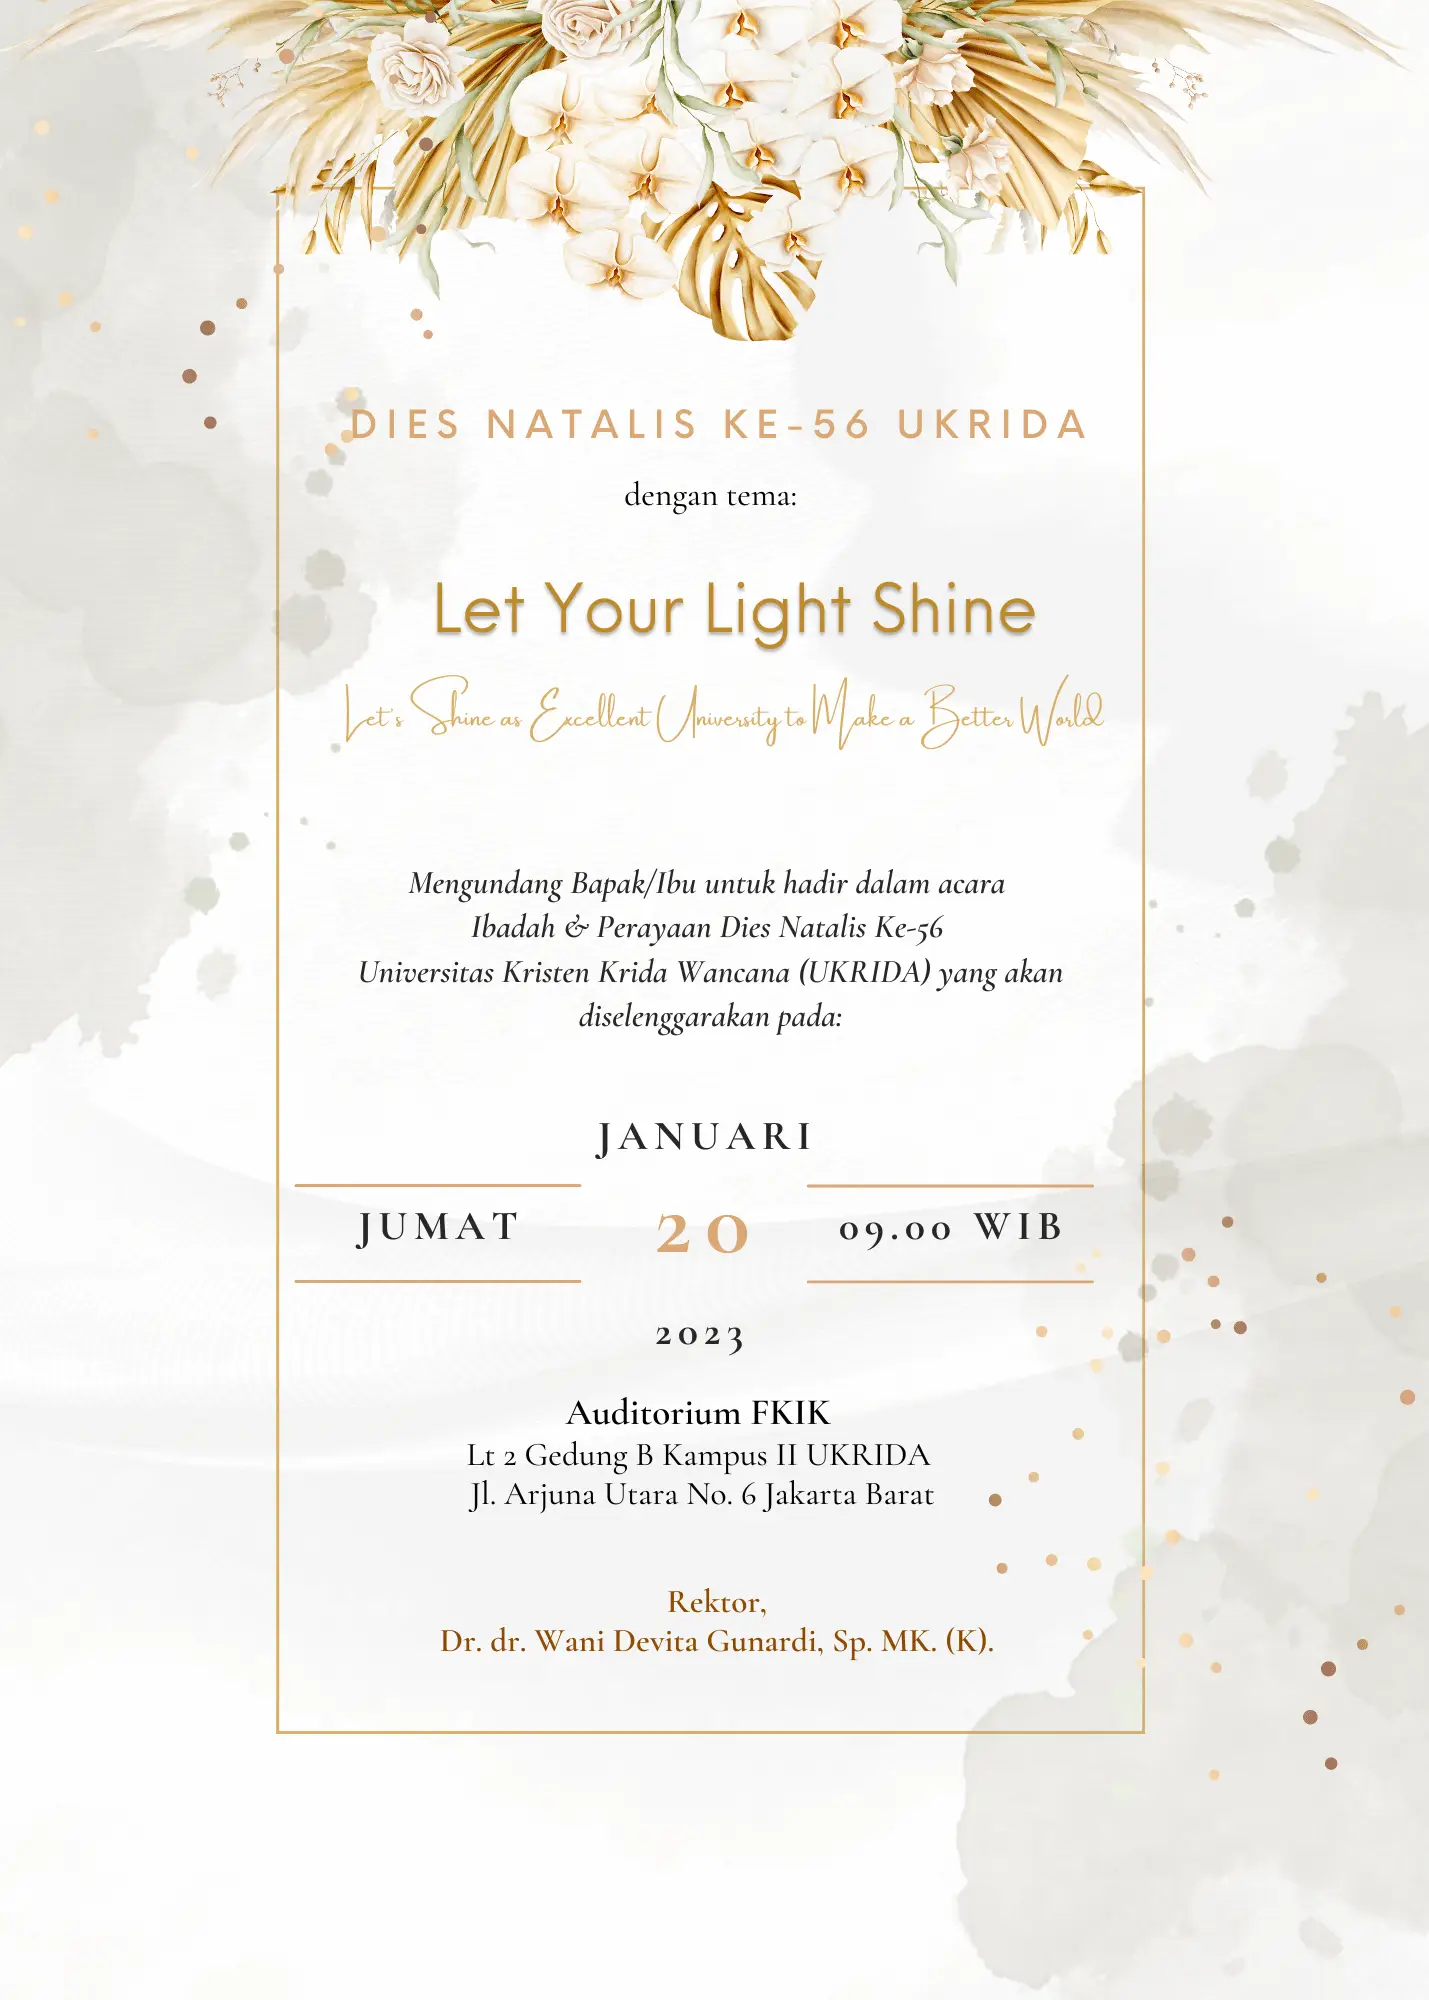
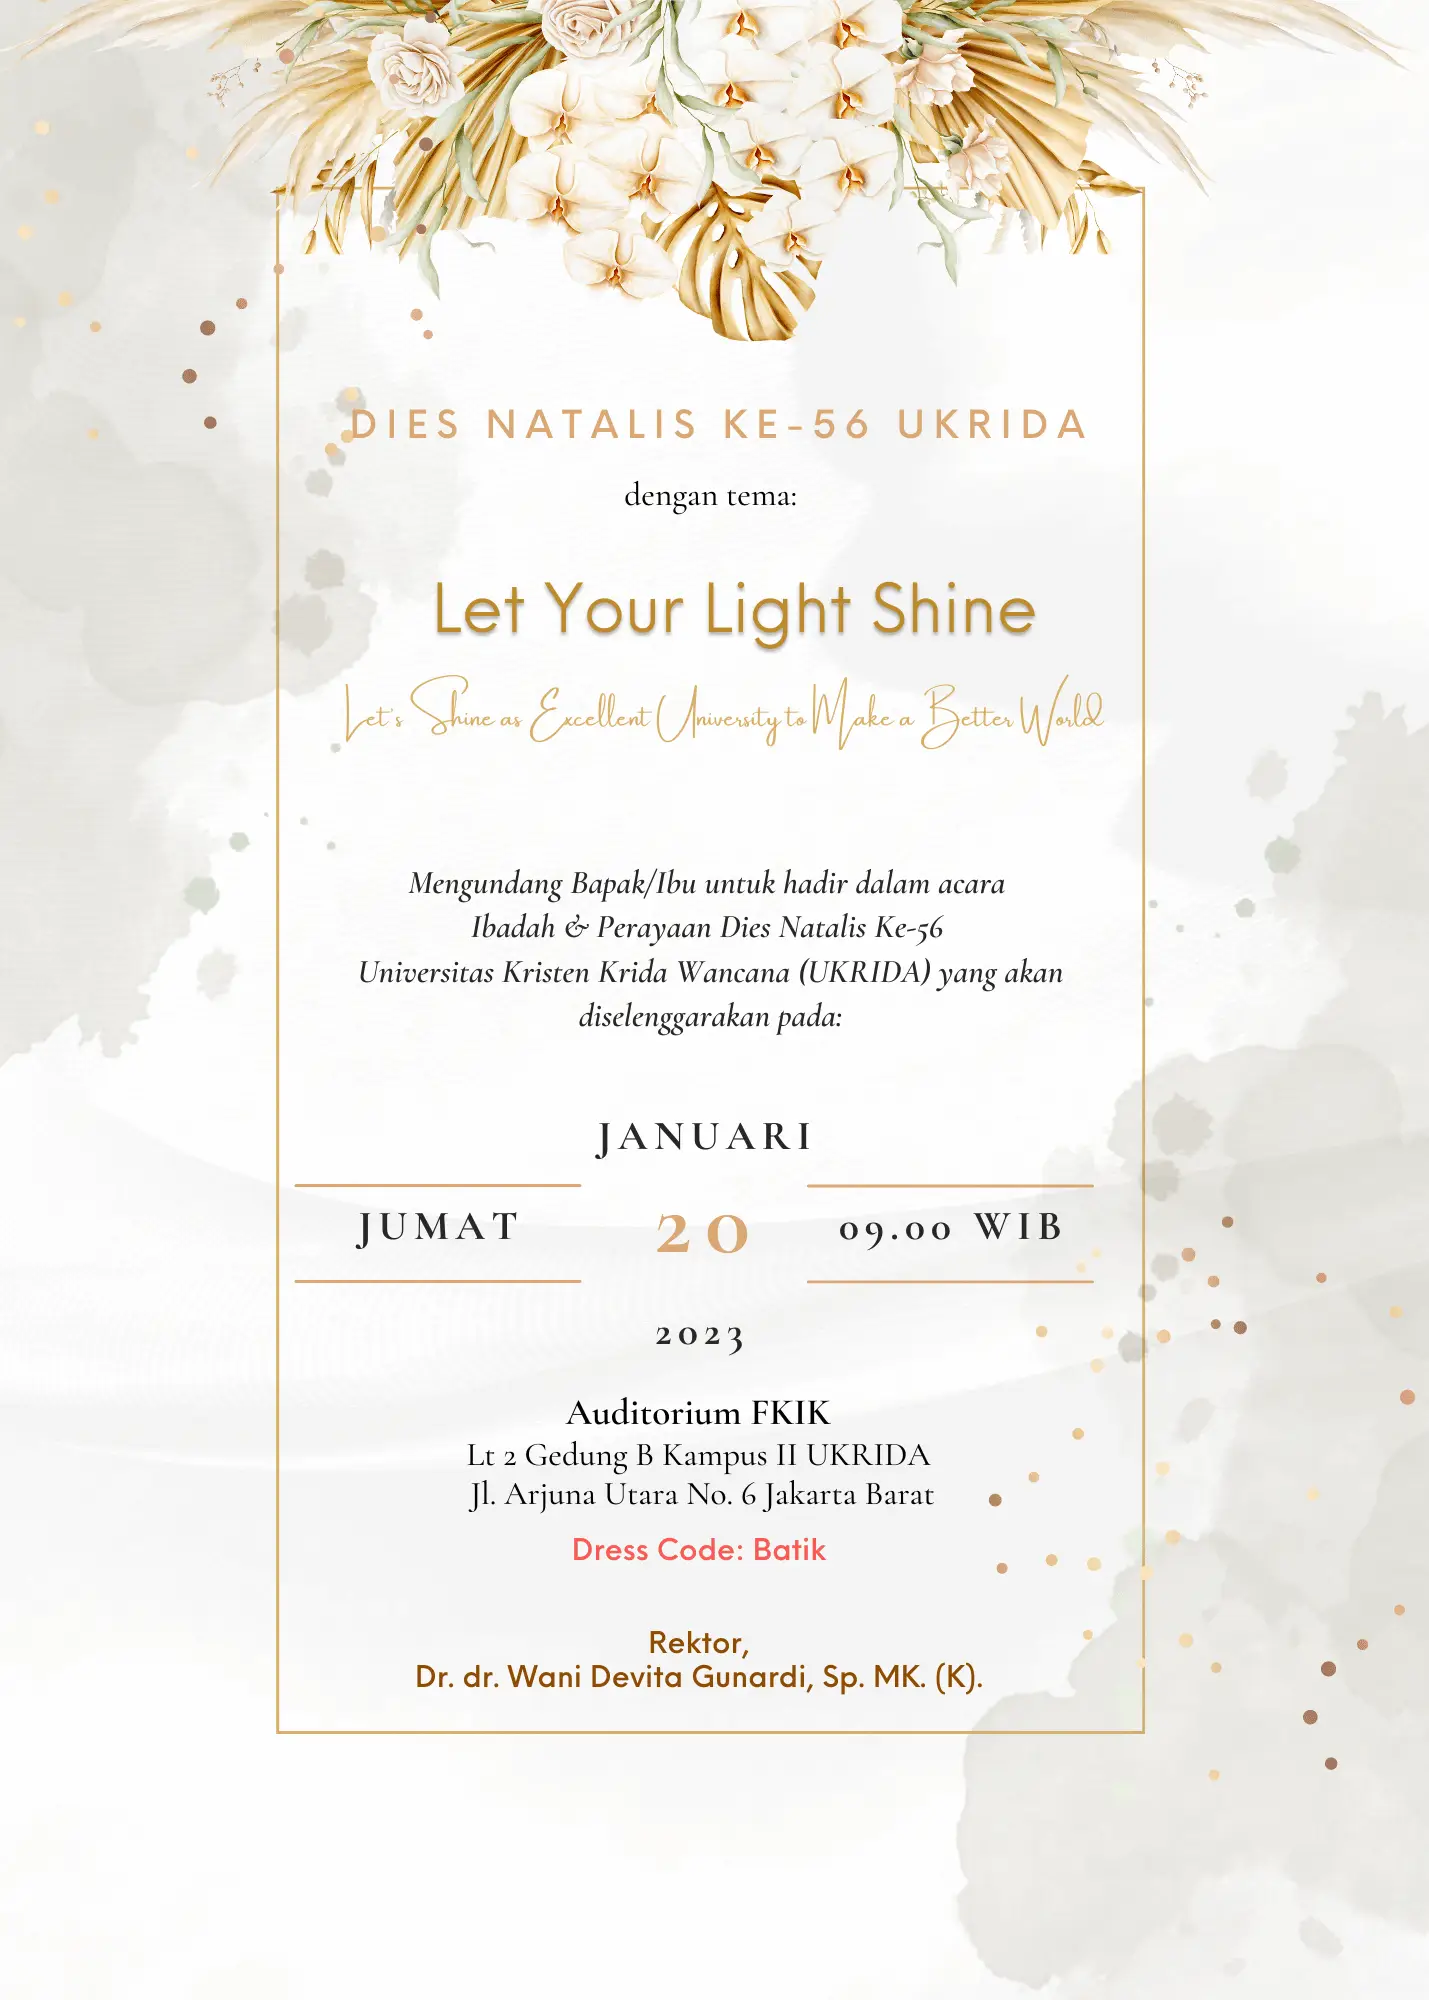
dies natalis 4 (additional feature) 2nd link & info onclick

Changed region(s): [[0.3079, 0.775, 0.6774, 0.868]]

diff --git a/resources/views/_invitation/_event/_page/ukrida-56th-dies-natalis.blade.php b/resources/views/_invitation/_event/_page/ukrida-56th-dies-natalis.blade.php
@@ -252,6 +252,7 @@
                                             </span>
                                             Jl. Arjuna Utara No. 6<br> 
                                             Jakarta Barat<br><br><br>
+                                            <span class="fix-montserrat-s-b text-danger">Dresscode: Batik</span><br>
                                             <span class="fix-montserrat-s-b text-info">Jumat, 20 Januari 2023</span><br><br>
                                             <span class="label label-danger">09.00-12.00 WIB</span>
                                         </p>
@@ -288,10 +289,13 @@
                                         </div>
                                         <div class="col-sm-6"><br>
                                             <span class="fix-montserrat-s-b">Apakah Anda datang?</span><br>
-                                            <input type="radio" name="rsvp_attend" value="1" required>
+                                            <input type="radio" name="rsvp_attend" value="1" onchange="rsvpAttendanceChange(1)" required>
                                             <small>Ya, tentu!</small><br>
-                                            <!-- <input type="radio" name="rsvp_attend" value="0">
-                                            <small>Maaf, tidak bisa hadir.</small> -->
+                                            @if(!($addition_logic && in_array('celebration',$addition_logic)))
+                                            <input type="radio" name="rsvp_attend" value="0" onchange="rsvpAttendanceChange(0)">
+                                            <small>Maaf, tidak bisa hadir.</small><br><br>
+                                            @endif
+                                            <span id="rsvp_attend_info" class="text-green-sh"></span>
                                         </div>
                                         <div class="col-sm-12" style="padding-top:60px">
                                             <input type="submit" class="btn submit" id="form-rsvp-send" value="save">
@@ -422,21 +426,6 @@
                         </div>
                         <br><br><br>
                     </section>
-                    <section    id="live-streaming" class="gla_section gla_image_bck" data-color="#ecf2f0">
-                        <div class="container">
-                            <div class="row">
-                                <!-- <span class="fix-montserrat-m"></span><br><br> -->
-                                <div class="col-sm-4 col-xs-12 gla_image_bck" data-color="#fff">
-                                    <div class="gla_simple_block">
-                                        <h2>UKRIDA TV</h2>
-                                        <!-- <p class="text-muted"></p><br><br><br> -->
-                                        <a href="https://www.youtube.com/watch?v=Zlqjnf3r-v0">stream at <i class="ti ti-youtube gla_icon_box"></i></a>
-                                    </div>
-                                </div>
-                                <iframe class="col-sm-8 col-xs-12 gla_image_bck" width="100%" style="min-height:300px" src="https://www.youtube.com/embed/Zlqjnf3r-v0" title="YouTube video player" frameborder="0" allow="accelerometer; autoplay; clipboard-write; encrypted-media; gyroscope; picture-in-picture" allowfullscreen></iframe>
-                            </div>
-                        </div>
-                    </section>
                     <section    id="health-protocol" class="gla_section gla_image_bck" data-color="#fff">
                         <div class="container text-center pd-md">
                             <span class="fix-montserrat-m">Protokol Kesehatan</span><br><br>
@@ -453,6 +442,22 @@
                                     <div class="gla_round_im gla_image_bck" data-image="{{asset($cdn_link.'images/hp-3-a.png')}}"></div>
                                     <p class="text-choco-1">cuci tangan & pakai hand sanitizer</p>
                                 </div>
+                            </div>
+                        </div>
+                    </section>
+                    <section    id="live-streaming" class="gla_section gla_image_bck" data-color="#ecf2f0">
+                        <div class="container">
+                            <div class="row">
+                                <!-- <span class="fix-montserrat-m">Live Streaming</span><br><br> -->
+                                <div class="col-sm-4 col-xs-12 gla_image_bck" data-color="#fff">
+                                    <div class="gla_simple_block">
+                                        <h2>LIVE STREAMING</h2>
+                                        <p class="text-muted">UKRIDA TV</p><br><br><br>
+                                        <a href="http://www.youtube.com/ukridatv">stream at <i class="ti ti-youtube gla_icon_box" style="font-size:18px;color:red;"></i></a>
+                                    </div>
+                                </div>
+                                <iframe class="col-sm-8 col-xs-12 gla_image_bck" width="100%" style="min-height:300px" src="https://www.youtube.com/embed/Xfzck9I9V0I" 
+                                  title="YouTube video player" frameborder="0" allow="accelerometer; autoplay; clipboard-write; encrypted-media; gyroscope; picture-in-picture" allowfullscreen></iframe>
                             </div>
                         </div>
                     </section>
@@ -516,6 +521,14 @@
                   toastr.warning("this input accepts only numbers", 'Nah..', {timeOut: 5000});
                   e.returnValue = false;
                   if (e.preventDefault) e.preventDefault();
+              }
+            }
+
+            function rsvpAttendanceChange(value){
+              if(value){
+                $('#rsvp_attend_info').html("Dress Code: Batik");
+              }else{
+                $('#rsvp_attend_info').html("Anda dapat bergabung secara online<br>lewat <u><a href='#live-streaming'>live streaming UKRIDA TV</a></u>");
               }
             }
 

diff --git a/app/Http/Controllers/Invitation/EventController.php b/app/Http/Controllers/Invitation/EventController.php
@@ -20,6 +20,9 @@ class EventController extends Controller
     }
     public function outer_index($code){
         $event = 'Event';
+        $code_org = $code;
+        $subject_name = explode("_",$code);
+        $code = $subject_name[0];
         $invited_name = (isset($_GET['i'])?$_GET['i']:'');
         $display_rsvp = (isset($_GET['rsvp'])?$_GET['rsvp']:'');
         $exist = Event::where('code',$code)->first();
@@ -29,13 +32,14 @@ class EventController extends Controller
                 "thumbnail_icon"=> 'asset-event-bg/'.$code.'/images/thumbnail.jpg',
                 "event"         => $exist->name." | ".env("APP_NAME", "BeritaBaik"),
                 "code"          => $code,
-                "url"           => url('/e/'.$code.'/inner?i='.$invited_name.'&rsvp='.$display_rsvp),
+                "url"           => url('/e/'.$code_org.'/inner?i='.$invited_name.'&rsvp='.$display_rsvp),
             ]);
         }
     }
     public function inner_index($code){
         $event = 'event';
-        $subject_name = explode("-",$code);
+        $subject_name = explode("_",$code);
+        $code = $subject_name[0];
         $invited_name = (isset($_GET['i'])?$_GET['i']:'');
         $display_rsvp = (isset($_GET['rsvp'])?$_GET['rsvp']:'');
         $addition_logic = array();
